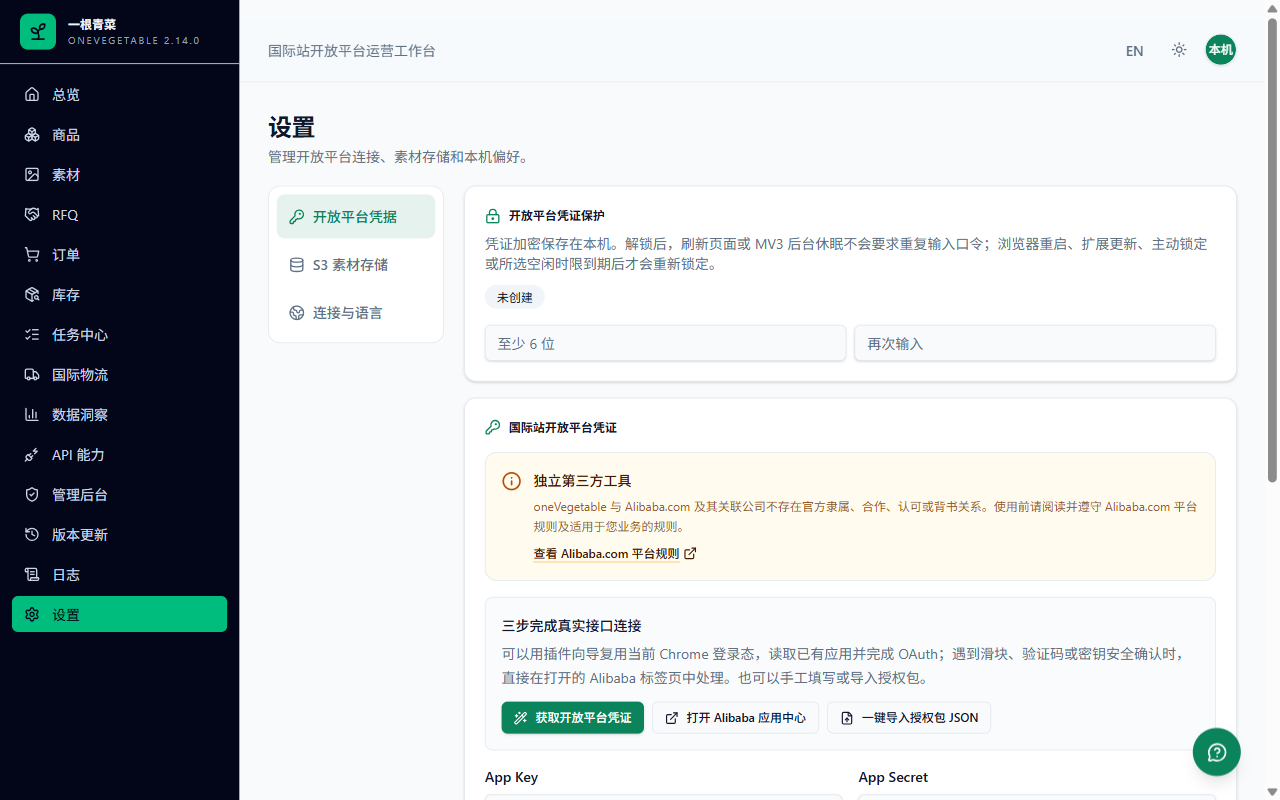
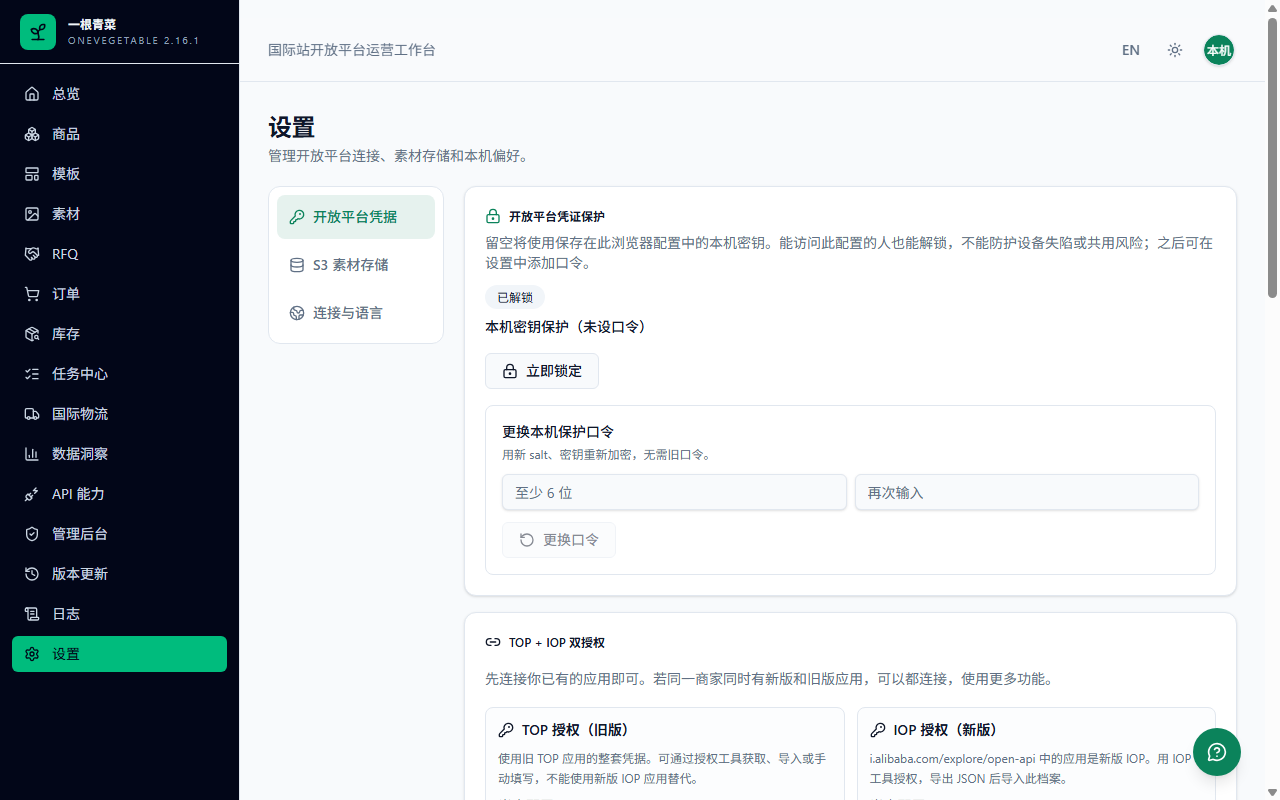
docs(store): refresh bilingual v2.16.1 screenshots

diff --git a/scripts/capture-store-assets.ts b/scripts/capture-store-assets.ts
@@ -11,8 +11,6 @@ interface StoreScreenshotLocale {
   labels: {
     onboardingHeading: string;
     startAuthorization: string;
-    acquisitionHeading: string;
-    closeAcquisition: string;
     capabilitiesLink: string;
     capabilitiesHeading: string;
     settingsLink: string;
@@ -28,8 +26,6 @@ const screenshotLocales: readonly StoreScreenshotLocale[] = [
     labels: {
       onboardingHeading: '四步连接 Alibaba 开放平台',
       startAuthorization: '开始授权向导',
-      acquisitionHeading: '获取开放平台凭证',
-      closeAcquisition: '关闭',
       capabilitiesLink: 'API 能力',
       capabilitiesHeading: 'API 能力目录',
       settingsLink: '设置',
@@ -43,8 +39,6 @@ const screenshotLocales: readonly StoreScreenshotLocale[] = [
     labels: {
       onboardingHeading: 'Connect Alibaba Open Platform in four steps',
       startAuthorization: 'Start authorization assistant',
-      acquisitionHeading: 'Get Open Platform credentials',
-      closeAcquisition: 'Close',
       capabilitiesLink: 'API capabilities',
       capabilitiesHeading: 'API capabilities',
       settingsLink: 'Settings',
@@ -99,6 +93,7 @@ async function captureLocale(screenshotLocale: StoreScreenshotLocale): Promise<v
   });
 
   try {
+    await context.route(/^https?:/u, (route) => route.abort('blockedbyclient'));
     let serviceWorker = context.serviceWorkers()[0];
     serviceWorker ??= await context.waitForEvent('serviceworker');
     const extensionId = new URL(serviceWorker.url()).host;
@@ -129,25 +124,22 @@ async function captureLocale(screenshotLocale: StoreScreenshotLocale): Promise<v
     await settlePointer(page);
     await assertNoInternalReleaseText(page.locator('body').innerText());
     await page.screenshot({ path: resolve(localeScreenshotsDirectory, '01-onboarding.png') });
+    await page.evaluate(() => {
+      document.documentElement.style.zoom = '';
+    });
 
     await page.getByRole('checkbox').check();
     await page.getByRole('button', { name: screenshotLocale.labels.startAuthorization, exact: true }).click();
-    const acquisitionDialog = page.getByRole('dialog', {
-      name: screenshotLocale.labels.acquisitionHeading,
-      exact: true
-    });
-    await acquisitionDialog.waitFor();
+    await page.getByTestId('authorization-protection').waitFor();
+    await page.getByTestId('continue-authorization-protection').click();
+    await page.getByTestId('authorization-method-choices').waitFor();
     await settlePointer(page);
     await assertNoInternalReleaseText(page.locator('body').innerText());
     await page.screenshot({
       path: resolve(localeScreenshotsDirectory, '02-authorization-guide.png')
     });
-    await acquisitionDialog
-      .getByRole('button', { name: screenshotLocale.labels.closeAcquisition, exact: true })
-      .click();
-    await page.evaluate(() => {
-      document.documentElement.style.zoom = '';
-    });
+    await page.getByTestId('cancel-authorization-protocol').click();
+    await page.getByTestId('authorization-method-choices').waitFor({ state: 'hidden' });
     await page.getByRole('link', { name: screenshotLocale.labels.capabilitiesLink, exact: true }).click();
     await page
       .getByRole('heading', { name: screenshotLocale.labels.capabilitiesHeading, exact: true })
@@ -188,4 +180,7 @@ async function assertNoInternalReleaseText(textPromise: Promise<string>): Promis
 async function settlePointer(page: Page): Promise<void> {
   await page.mouse.move(640, 16);
   await page.waitForTimeout(250);
+  await page.waitForFunction(() => document.querySelector('[data-sonner-toast]') === null, undefined, {
+    timeout: 15_000
+  });
 }

diff --git a/docs/release-2.16.1-readiness.md b/docs/release-2.16.1-readiness.md
@@ -8,7 +8,7 @@
 - 本机保护口令可选，授权工具与设置共享。无口令模式用随机设备密钥；旧口令用户保留原保护，手动锁定仍有效，重启或更新不自动锁定。
 - 包含模板变量、顺序组合及携图 ZIP/S3 交换；平台去重时只在用户确认后复用，并核对实际分组及哈希。
 - 待办使用 Chrome 同步，旧本机待办需主动迁移；凭据和密钥不参与同步。总览卡片高度统一。
-- 中英文商店说明、权限理由、隐私页及审核步骤同步，不再宣传必填口令或空闲锁定。未新增扩展权限或真实写能力。
+- 中英文商店说明、权限理由、隐私页及审核步骤同步，并重拍中英文各 4 张 1280×800 截图，不再宣传必填口令或空闲锁定。截图使用无真实凭据的隔离 Profile，阻断 HTTP 网络，不提供模拟业务结果。未新增扩展权限或真实写能力。
 
 ## 商店更新摘要
 
@@ -32,7 +32,7 @@ English:
 
 Windows 验证：329 个文件、2,845 项单测，Worker 隔离 24 项，Web/MV3 114 项，独立授权 26 项，BFF/D1 回放 2 项，Node 凭据及登录 6 项，以及 2.13.0/2.15.1 升级 40 项检查均通过。Lint 保留 31 项既有 warning、0 error。测试没有使用真实账号写入。
 
-首次全量检查发现本机私有工具目录被 Lint 扫描，明确排除已被 Git 忽略的 `.codex/` 后复跑；没有删除私有脚本或降低业务源码规则。末尾合规检查的英文短语大小写也已修正并重新生成隐私页，合规分项通过。最终完整检查、CI 及 Tag 流水线结果分别记录，失败日志不冒充成功。
+首次全量检查发现本机私有工具目录被 Lint 扫描，明确排除已被 Git 忽略的 `.codex/` 后复跑；没有删除私有脚本或降低业务源码规则。末尾合规检查的英文短语大小写也已修正并重新生成隐私页，合规分项通过。修复后完整 Windows pnpm check 已干净通过（release-2.16.1-check-verified.log）；CI 及 Tag 流水线另行核对，失败日志不冒充成功。
 
 日志位于远程忽略目录 `.codex/runtime/release-2.16.1-*.log`。正式 Tag 只能在同一候选通过后创建，GitHub Release 仍需自身流水线通过，不使用旧提交的 CI 结果替代。
 
